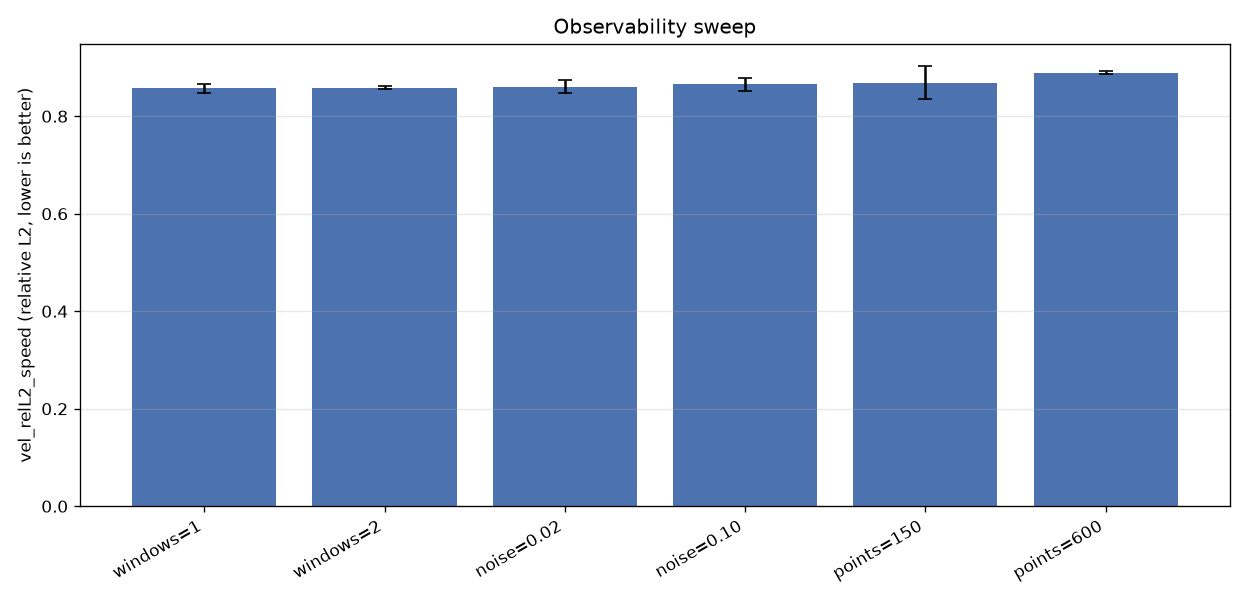
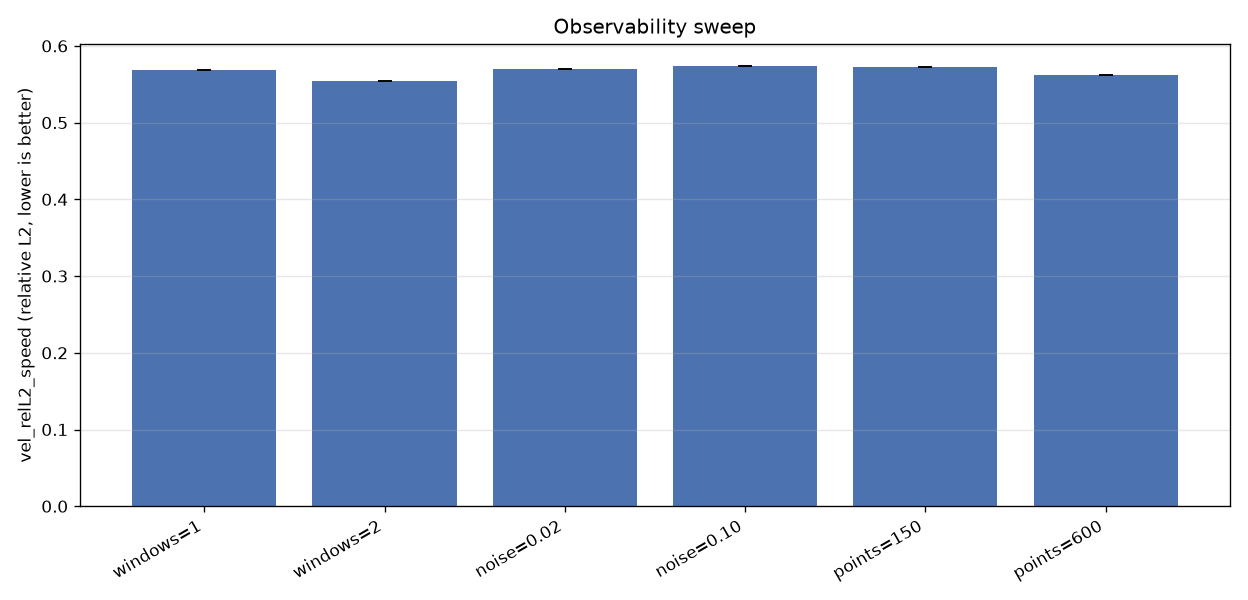
Add observability sweep results (1800-step) + README table

diff --git a/README.md b/README.md
@@ -399,11 +399,29 @@ python scripts/observability_sweep.py --dtype float32 --steps 1800 --seeds 0 1 \
 
 It writes `sweep.json` and per-metric bar charts (`sweep_vel_relL2_speed.png`,
 `sweep_vel_relL2_v.png`, `sweep_wss_relL2.png`) under
-[`docs/results/observability/`](docs/results/observability). The dominant lever
-is the number of windows (a second, angled window most improves the cross-beam
-`v` component); noise and sparsity have a smaller effect in this regime, and
-velocity error is ultimately floor-limited by the short CPU training budget used
-for the sweep rather than by the acquisition alone.
+[`docs/results/observability/`](docs/results/observability).
+
+Reference sweep (Model B, fsi_informed + traction; 1800 Adam + 200 L-BFGS steps,
+float32, CPU; relative L2, ↓):
+
+| condition | SNR (dB) | windows | pts/frame | speed | `u` | `v` | vorticity | WSS | pressure |
+|---|---|---|---|---|---|---|---|---|---|
+| **windows=1** | 26 | 1 | 300 | 0.568 | 0.969 | 0.564 | 0.711 | 0.741 | 0.219 |
+| **windows=2** | 26 | 2 | 300 | **0.555** | **0.815** | 0.579 | 0.714 | **0.725** | **0.172** |
+| noise=0.02 | 34 | 1 | 300 | 0.569 | 0.972 | 0.563 | 0.715 | 0.744 | 0.221 |
+| noise=0.10 | 20 | 1 | 300 | 0.574 | 0.968 | 0.582 | 0.729 | 0.756 | 0.228 |
+| points=150 | 26 | 1 | 150 | 0.573 | 0.972 | 0.545 | 0.714 | 0.755 | 0.232 |
+| points=600 | 26 | 1 | 600 | 0.562 | 0.972 | 0.564 | 0.721 | 0.743 | 0.229 |
+
+**The dominant lever is angular coverage, not noise or density.** The primary
+(apical) window's beam is nearly aligned with `y`, so it observes `v` well
+(relL2 0.56) but the cross-beam `u` component barely at all (relL2 **0.97**).
+Adding a second, angled window collapses the `u` error to **0.815** and improves
+speed, WSS and pressure — whereas varying SNR across 20–34 dB or sampling density
+across 150–600 pts/frame changes every metric by only ~1–2%. This quantifies the
+single-component **observability bottleneck**: the reconstruction is limited by
+*how many directions are measured*, and the physics prior fills the rest.
+Raw numbers: [`docs/results/observability/sweep.json`](docs/results/observability/sweep.json).
 
 ### 3D end-to-end validation
 
